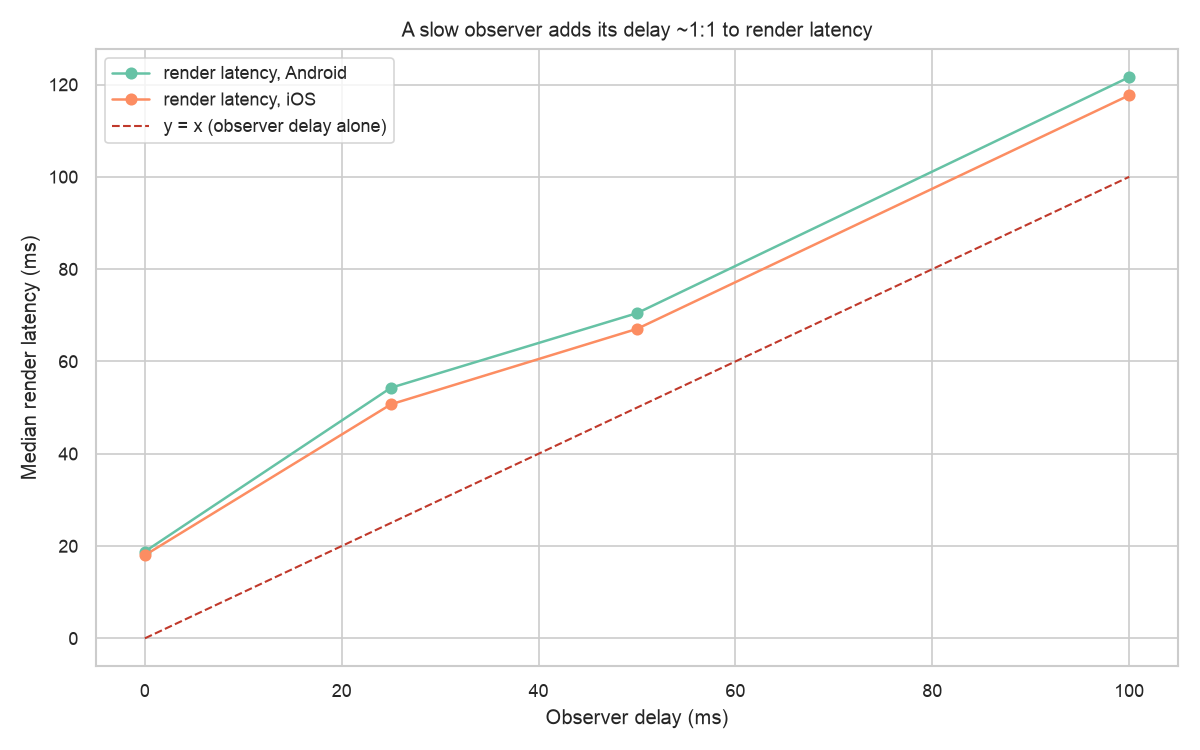
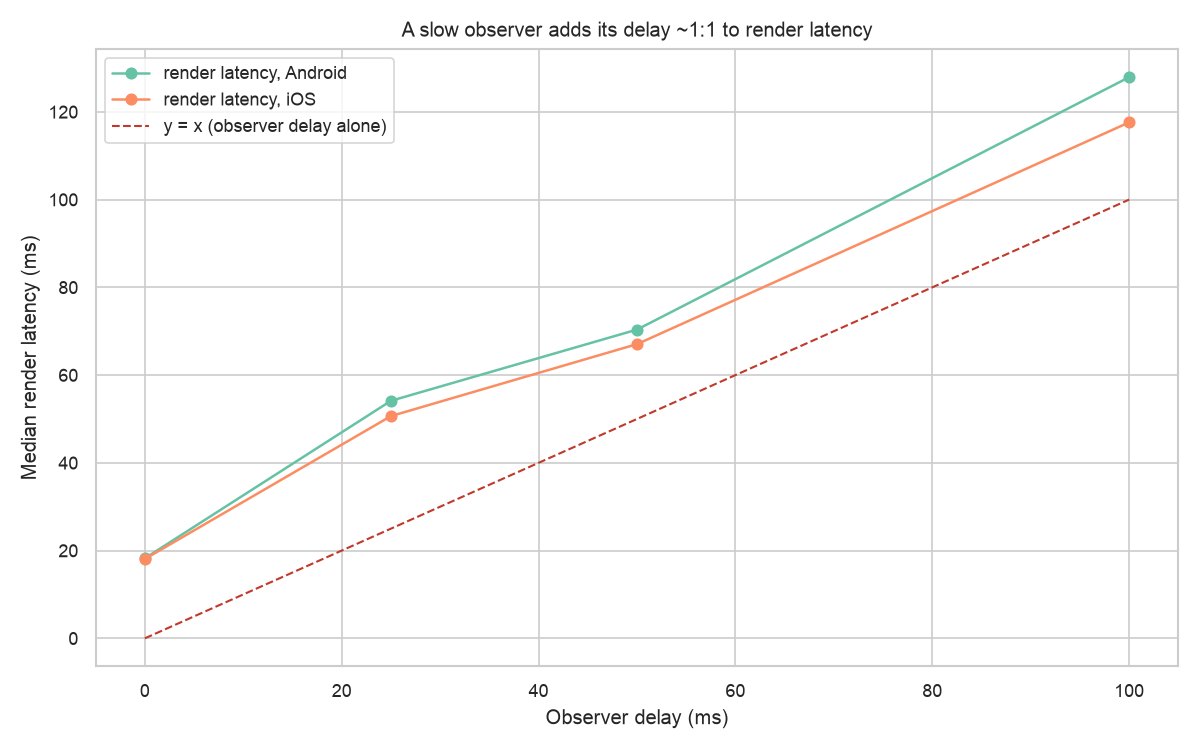
chore: phone bench report after walk-once

diff --git a/benchmark/reports/SUMMARY.md b/benchmark/reports/SUMMARY.md
@@ -1,6 +1,6 @@
 # Benchmark results
 
-Captured **2026-10-29** against `2.0.1` at `0b5980d` on Dart SDK 3.13.7, UI scenarios on Android, iOS. N=10 iterations.
+Captured **2026-11-05** against `2.0.1` at `9f468de, 0205ecc` on Dart SDK 3.13.7, UI scenarios on Android, iOS. N=10 iterations.
 
 > Per-device measurements, reflecting each device's CPU, GPU, GC, OS scheduler and thermal state. Yours WILL differ, so capture your own baseline before measuring a delta.
 
@@ -10,14 +10,14 @@ The headline finding. list_smith invokes your observer *synchronously* on the pa
 
 | Platform | Observer delay (ms) | Median render latency (ms) | Render minus observer (ms) | N |
 |---|---:|---:|---:|---:|
-| Android | 0 | 18.8 | 18.8 | 10 |
-| Android | 25 | 54.3 | 29.3 | 10 |
-| Android | 50 | 70.5 | 20.5 | 10 |
-| Android | 100 | 121.6 | 21.6 | 10 |
-| iOS | 0 | 18.0 | 18.0 | 10 |
+| Android | 0 | 18.2 | 18.2 | 10 |
+| Android | 25 | 54.1 | 29.1 | 10 |
+| Android | 50 | 70.4 | 20.4 | 10 |
+| Android | 100 | 127.9 | 27.9 | 10 |
+| iOS | 0 | 18.1 | 18.1 | 10 |
 | iOS | 25 | 50.7 | 25.7 | 10 |
 | iOS | 50 | 67.1 | 17.1 | 10 |
-| iOS | 100 | 117.7 | 17.7 | 10 |
+| iOS | 100 | 117.6 | 17.6 | 10 |
 
 
 ![Render latency vs observer delay](observer_latency.png)
@@ -28,9 +28,9 @@ From the `sync_search_scaling` micro (AOT, `benchmark_harness`). `SyncListView` 
 
 | List size | N | Median (us) | IQR (us) | Median (ms) |
 |---:|---:|---:|---:|---:|
-| 1,000 | 10 | 373.21 | 9.49 | 0.37 |
-| 10,000 | 10 | 3,973 | 87.60 | 3.97 |
-| 100,000 | 10 | 41,447 | 1,020 | 41.45 |
+| 1,000 | 10 | 379.64 | 8.42 | 0.38 |
+| 10,000 | 10 | 4,022 | 167.93 | 4.02 |
+| 100,000 | 10 | 41,793 | 900.06 | 41.79 |
 
 
 ![Sync-search scaling](sync_search_scaling.png)
@@ -41,9 +41,9 @@ From the `bucket_by_group_scaling` micro (AOT, `benchmark_harness`). Sync groupi
 
 | List size | N | Median (us) | IQR (us) | Median (ms) |
 |---:|---:|---:|---:|---:|
-| 1,000 | 10 | 240.21 | 8.70 | 0.24 |
-| 10,000 | 10 | 2,464 | 155.17 | 2.46 |
-| 100,000 | 10 | 27,204 | 1,211 | 27.20 |
+| 1,000 | 10 | 232.95 | 2.63 | 0.23 |
+| 10,000 | 10 | 2,407 | 43.88 | 2.41 |
+| 100,000 | 10 | 26,489 | 605.96 | 26.49 |
 
 
 ![Sync grouping scaling](bucket_by_group_scaling.png)
@@ -54,9 +54,9 @@ From the `dedup_scaling` micro (AOT, `benchmark_harness`). The async list de-dup
 
 | Loaded items | N | Median (us) | IQR (us) | Median (ms) |
 |---:|---:|---:|---:|---:|
-| 1,000 | 10 | 290.75 | 5.18 | 0.29 |
-| 10,000 | 10 | 3,241 | 67.21 | 3.24 |
-| 100,000 | 10 | 38,040 | 871.93 | 38.04 |
+| 1,000 | 10 | 301.64 | 25.31 | 0.30 |
+| 10,000 | 10 | 3,374 | 90.99 | 3.37 |
+| 100,000 | 10 | 40,117 | 2,583 | 40.12 |
 
 
 ![De-dup scaling](dedup_scaling.png)
@@ -68,9 +68,9 @@ Confirms the bookkeeping costs ~nothing. `observer_dispatch` is one no-op observ
 | Micro | Metric | Median (us) |
 |---|---|---:|
 | `observer_dispatch` | us / dispatch | 0.011 |
-| `wrapping_overhead` (1 page) | us / key | 0.165 |
-| `wrapping_overhead` (10 pages) | us / key | 0.165 |
-| `wrapping_overhead` (100 pages) | us / key | 0.166 |
+| `wrapping_overhead` (1 page) | us / key | 0.171 |
+| `wrapping_overhead` (10 pages) | us / key | 0.169 |
+| `wrapping_overhead` (100 pages) | us / key | 0.170 |
 
 ## UI scenarios: per-frame build cost
 
@@ -78,24 +78,24 @@ From the profile-mode `integration_test` scenarios, real frames on one device pe
 
 | Scenario | Platform | Frames | Avg build (ms) | Worst build (ms) | p99 build (ms) | Missed |
 |---|---|---:|---:|---:|---:|---:|
-| `bare_listview` | Android | 610 | 1.22 | 4.79 | 2.76 | 0 |
-| `bare_listview` | iOS | 610 | 0.71 | 1.58 | 1.34 | 0 |
-| `cri_refresh` | Android | 849 | 0.84 | 4.70 | 2.44 | 0 |
-| `cri_refresh` | iOS | 850 | 0.35 | 1.83 | 1.47 | 0 |
-| `edit_transitions_fade` | Android | 500 | 1.11 | 9.36 | 8.08 | 0 |
-| `edit_transitions_fade` | iOS | 500 | 0.29 | 1.79 | 1.71 | 0 |
-| `edit_transitions_none` | Android | 500 | 1.04 | 13.98 | 8.43 | 0 |
-| `edit_transitions_none` | iOS | 500 | 0.25 | 2.92 | 1.73 | 0 |
-| `edit_transitions_size` | Android | 500 | 1.10 | 9.11 | 7.09 | 0 |
-| `edit_transitions_size` | iOS | 500 | 0.38 | 1.90 | 1.59 | 0 |
-| `edit_transitions_size_scrolled` | Android | 500 | 1.07 | 9.83 | 8.44 | 0 |
-| `edit_transitions_size_scrolled` | iOS | 500 | 0.34 | 1.69 | 1.63 | 0 |
-| `edit_transitions_slide` | Android | 500 | 1.30 | 9.95 | 8.87 | 0 |
-| `edit_transitions_slide` | iOS | 500 | 0.32 | 1.93 | 1.78 | 0 |
-| `isp_scroll` | Android | 610 | 1.29 | 4.75 | 3.21 | 0 |
-| `isp_scroll` | iOS | 610 | 0.76 | 2.38 | 1.70 | 0 |
-| `sync_scroll` | Android | 610 | 1.27 | 5.39 | 3.79 | 0 |
-| `sync_scroll` | iOS | 610 | 0.72 | 2.84 | 1.36 | 0 |
+| `bare_listview` | Android | 610 | 1.23 | 5.14 | 2.88 | 0 |
+| `bare_listview` | iOS | 610 | 0.71 | 1.47 | 1.35 | 0 |
+| `cri_refresh` | Android | 849 | 0.89 | 6.73 | 2.79 | 0 |
+| `cri_refresh` | iOS | 849 | 0.36 | 1.72 | 1.49 | 0 |
+| `edit_transitions_fade` | Android | 500 | 1.17 | 9.52 | 9.05 | 0 |
+| `edit_transitions_fade` | iOS | 500 | 0.30 | 1.97 | 1.78 | 0 |
+| `edit_transitions_none` | Android | 500 | 1.06 | 11.90 | 9.32 | 0 |
+| `edit_transitions_none` | iOS | 500 | 0.26 | 2.12 | 1.85 | 0 |
+| `edit_transitions_size` | Android | 500 | 1.16 | 8.86 | 8.49 | 0 |
+| `edit_transitions_size` | iOS | 500 | 0.39 | 1.75 | 1.64 | 0 |
+| `edit_transitions_size_scrolled` | Android | 500 | 1.04 | 9.12 | 7.34 | 0 |
+| `edit_transitions_size_scrolled` | iOS | 500 | 0.34 | 2.01 | 1.69 | 0 |
+| `edit_transitions_slide` | Android | 500 | 1.19 | 9.83 | 8.07 | 0 |
+| `edit_transitions_slide` | iOS | 500 | 0.33 | 1.92 | 1.81 | 0 |
+| `isp_scroll` | Android | 609 | 1.32 | 6.61 | 3.99 | 0 |
+| `isp_scroll` | iOS | 610 | 0.74 | 2.23 | 1.82 | 0 |
+| `sync_scroll` | Android | 609 | 1.30 | 4.93 | 3.20 | 0 |
+| `sync_scroll` | iOS | 610 | 0.72 | 2.39 | 1.35 | 0 |
 
 
 ![Per-frame build cost](frame_costs.png)
@@ -106,24 +106,24 @@ The same frames on the raster thread, which draws what the build produced. `miss
 
 | Scenario | Platform | Frames | Avg raster (ms) | Worst raster (ms) | p99 raster (ms) | Missed |
 |---|---|---:|---:|---:|---:|---:|
-| `bare_listview` | Android | 610 | 2.38 | 6.50 | 3.16 | 0 |
-| `bare_listview` | iOS | 610 | 0.62 | 1.54 | 1.07 | 0 |
-| `cri_refresh` | Android | 849 | 2.44 | 8.59 | 3.62 | 0 |
-| `cri_refresh` | iOS | 850 | 0.55 | 3.47 | 0.71 | 0 |
-| `edit_transitions_fade` | Android | 500 | 2.71 | 8.58 | 4.73 | 0 |
-| `edit_transitions_fade` | iOS | 500 | 0.62 | 2.19 | 0.91 | 0 |
-| `edit_transitions_none` | Android | 500 | 2.43 | 8.40 | 3.58 | 0 |
-| `edit_transitions_none` | iOS | 500 | 0.57 | 1.57 | 0.97 | 0 |
-| `edit_transitions_size` | Android | 500 | 2.48 | 5.80 | 3.73 | 0 |
-| `edit_transitions_size` | iOS | 500 | 0.56 | 0.81 | 0.70 | 0 |
-| `edit_transitions_size_scrolled` | Android | 500 | 2.74 | 8.13 | 3.92 | 0 |
-| `edit_transitions_size_scrolled` | iOS | 500 | 0.56 | 0.98 | 0.70 | 0 |
-| `edit_transitions_slide` | Android | 500 | 2.71 | 6.71 | 4.05 | 0 |
-| `edit_transitions_slide` | iOS | 500 | 0.59 | 2.09 | 1.12 | 0 |
-| `isp_scroll` | Android | 610 | 2.48 | 6.35 | 3.56 | 0 |
-| `isp_scroll` | iOS | 610 | 0.62 | 1.32 | 1.16 | 0 |
-| `sync_scroll` | Android | 610 | 2.56 | 6.64 | 4.44 | 0 |
-| `sync_scroll` | iOS | 610 | 0.61 | 1.29 | 1.09 | 0 |
+| `bare_listview` | Android | 610 | 2.37 | 6.22 | 3.23 | 0 |
+| `bare_listview` | iOS | 610 | 0.61 | 1.26 | 1.09 | 0 |
+| `cri_refresh` | Android | 849 | 2.43 | 8.73 | 4.20 | 0 |
+| `cri_refresh` | iOS | 849 | 0.63 | 56.52 | 0.72 | 1 |
+| `edit_transitions_fade` | Android | 500 | 2.71 | 7.09 | 4.43 | 0 |
+| `edit_transitions_fade` | iOS | 500 | 0.74 | 57.95 | 0.98 | 1 |
+| `edit_transitions_none` | Android | 500 | 2.53 | 5.14 | 3.69 | 0 |
+| `edit_transitions_none` | iOS | 500 | 0.59 | 1.53 | 1.13 | 0 |
+| `edit_transitions_size` | Android | 500 | 2.67 | 6.30 | 4.47 | 0 |
+| `edit_transitions_size` | iOS | 500 | 0.58 | 0.96 | 0.73 | 0 |
+| `edit_transitions_size_scrolled` | Android | 500 | 2.48 | 6.77 | 3.62 | 0 |
+| `edit_transitions_size_scrolled` | iOS | 500 | 0.59 | 1.01 | 0.73 | 0 |
+| `edit_transitions_slide` | Android | 500 | 2.47 | 6.97 | 3.83 | 0 |
+| `edit_transitions_slide` | iOS | 500 | 0.60 | 2.00 | 1.17 | 0 |
+| `isp_scroll` | Android | 609 | 2.61 | 6.52 | 4.02 | 0 |
+| `isp_scroll` | iOS | 610 | 0.61 | 1.25 | 1.12 | 0 |
+| `sync_scroll` | Android | 609 | 2.45 | 5.76 | 3.95 | 0 |
+| `sync_scroll` | iOS | 610 | 0.62 | 1.26 | 1.11 | 0 |
 
 
 ![Per-frame raster cost](frame_raster_costs.png)
